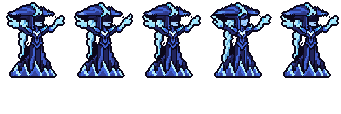
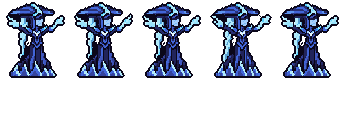
丽桑卓 R 对自己：冠下的面罩不再一大块黑，和她别的帧一样（用户：「感觉你说的丽桑卓那几个问题还是得修」）
- Codex 画的 R 对自己第 1、2 张（游戏里第 0、1、2、4 帧）脸很短，上面压着 6 行近黑的面罩；左边兜帽和头发之间还多出两行黑，整个面罩比她别的帧黑得多、高得多。
- 这几帧的头（冠、冠下的面罩和脸）换成同一个动作里第 4 张（游戏里第 3 帧）的：脸和设计图一样高，兜帽是深蓝，下巴在同一行，脖子不变（HEAD_FROM）。换头只换冠的那几列，举在冠沿旁边的手保持原样（CROWN_SPAN）。
- 五帧左边那两行黑都用下面一行的头发往上接到兜帽（HAIR_UP），只改黑格。
- 改了 R 对自己的 5 帧，以及待机、选人卡里用到这几帧的片段（hd_ / lo_ / 1 倍）。帧大小没变，.fanim 没变。细黑边留下的孤立黑格照样由 --specks 去掉。CI 的 53 项 python 检查、hero_reels --check 都过。

diff --git a/tools/art/casts_lissandra_hd.py b/tools/art/casts_lissandra_hd.py
@@ -7,8 +7,9 @@ at her design (the user, 2026-11-03: 「继续加四个 魔腾 凯南 剑魔 丽
 hd/casts holds Codex's 25 sheets (each its chosen raw generation byte for byte, redos included), drawn on a
 near-white ground: casts_rengar_hd.figure keys it off. Each frame's zoom (FRAME_ZOOM, --fit) reads her STAND rows tall,
 the top of her crown to her hem as the design, and of the zooms that do, the one nearest to what her CROWN gives (see
-FRAME_ZOOM), so her body and her crown are the design's size in every frame; HEAD_FROM gives two frames another's head;
-DEAD_PAINT lays her own shades over the black hole Codex left under the crown in the death's 5-8.
+FRAME_ZOOM), so her body and her crown are the design's size in every frame; HEAD_FROM gives frames another frame's
+head and HAIR_UP carries R-on-herself's hair up to the hood; DEAD_PAINT lays her own shades over the black hole Codex
+left under the crown in the death's 5-8.
 The old frame's body (its box places the new frame) leaves out what the old sheet baked in, the ice shards and frost by
 her hands: only what lies within two pixels of the dark outline counts (OLD_BODY). Each frame is then placed where the
 old body stood: its box's middle on the old box's middle and its bottom on the old box's bottom, from the pivot, on the
@@ -69,7 +70,15 @@ HELD = {"dead_7": "dead_6", "dead_8": "dead_6"}
 # crown's shadow") and a crown two squares wider at her height; tools/art/thin_outline.py ate into the blot, open to
 # the ground beside the face, and left holes and specks there (the user, 2026-11-16: 「丽桑卓头那里失去像素了」
 # 「丽桑卓也有莫名其妙阴影的部分」). Glide 6 is drawn the same way under the brim (the face as low), clean: frames 6-8 share it
-HEAD_FROM = {"run_7": "run_6", "run_8": "run_6"}
+HEAD_FROM = {"run_7": "run_6", "run_8": "run_6",
+             # R on herself (2026-11-17, 「感觉你说的丽桑卓那几个问题还是得修」): Codex's ult_self_1 / ult_self_2 (frames 0-2
+             # and 4) put a short face under a six-row black visor, the mask far darker than in her other frames; its
+             # ult_self_4 (frame 3) has the face as the design, under a navy hood, and the chin on the same row
+             **{f"ult_self_{k}": "ult_self_4" for k in (1, 2, 3, 5)}}
+# R on herself also leaves two black rows between the hood's band and her hair on her left, the mask's left half
+# twice as tall as in her other frames: the hair of the row under them carried up (HAIR_UP: design rows, the row the
+# hair is taken from, columns), outline squares only
+HAIR_UP = {f"ult_self_{k}": ((16, 18), 18, (12, 21)) for k in range(1, 6)}
 CROWN_ROWS = 14                 # design rows 0-13: the crown down to the brim's bottom outline (head_from takes all of it)
 # head_from's boxes under the brim (design rows and columns, from the fitted crown): the visor, the face and its dark
 # right side; the hair on her left and the hand by her chin stay the frame's own
@@ -307,6 +316,8 @@ def placed():
         out[n] = thrown(n, *out[n])
     for n, src in HEAD_FROM.items():
         out[n] = head_from(*out[n], out[src][0])
+    for n, spec in HAIR_UP.items():
+        out[n] = (hair_up(out[n][0], spec), out[n][1], out[n][2])
     for n in [n for n in out if HELD.get(n, n) in DEAD_PAINTED]:
         out[n] = (paint_void(out[n][0], out[DEAD_PAINT["src"]][0]), out[n][1], out[n][2])
     for n, (pic, x, y) in out.items():
@@ -338,18 +349,25 @@ def crown_fit(pic, search=6):
     return best[1], best[2]
 
 
+CROWN_SPAN = (-3, 50)           # the crown's columns (from the fitted crown's column 0): a brim drawn 2 wider fits
+
+
 def head_from(pic, x, y, src, pad=4):
     """(picture, x, y): the frame with src's head - src's rows down to the crown's last row (CROWN_ROWS - 1 in the
-    design) over the whole width, and HEAD_BOXES under the brim - laid where the design's crown fits the frame
-    (crown_fit on both); the frame's own rows above and in the crown's go first (a taller crown tip, a wider brim)."""
+    design) across the crown's columns (CROWN_SPAN: a hand raised beside the brim stays), and HEAD_BOXES under the
+    brim - laid where the design's crown fits the frame (crown_fit on both); the frame's own squares there go first (a
+    taller crown tip, a wider brim)."""
     sy, sx = crown_fit(src)
     fy, fx = crown_fit(pic)
     oy, ox = fy - sy + pad, fx - sx + pad
     out = np.zeros((pic.shape[0] + 2 * pad, pic.shape[1] + 2 * pad, 4), np.uint8)
     out[pad:pad + pic.shape[0], pad:pad + pic.shape[1]] = pic
     last = sy + CROWN_ROWS                          # src rows above this are the crown
-    out[:max(0, last + oy)] = 0
+    c0, c1 = sx + CROWN_SPAN[0], sx + CROWN_SPAN[1]
+    out[:max(0, last + oy), max(0, c0 + ox):max(0, c1 + ox)] = 0
     ys, xs = np.nonzero(src[:last, :, 3] > 0)
+    keep = (xs >= c0) & (xs < c1)
+    ys, xs = ys[keep], xs[keep]
     out[ys + oy, xs + ox] = src[ys, xs]
     for r0, r1, c0, c1 in HEAD_BOXES:
         for r in range(r0 + sy, r1 + sy):
@@ -375,6 +393,22 @@ def _box(shape, b, oy, ox):
     m = np.zeros(shape[:2], bool)
     m[max(0, b[0] + oy):max(0, b[1] + oy), max(0, b[2] + ox):max(0, b[3] + ox)] = True
     return m
+
+
+def hair_up(pic, spec):
+    """The frame with its hair carried up (HAIR_UP): in the rows and columns given (design, from the fitted crown),
+    an outline square under which the source row has hair (a light square) takes that square."""
+    (r0, r1), row, (c0, c1) = spec
+    fy, fx = crown_fit(pic)
+    line = _cols(pic, OUTLINE_COLS)
+    out = pic.copy()
+    for r in range(r0, r1):
+        for c in range(c0, c1):
+            y, x = r + fy, c + fx
+            s = pic[row + fy, x]
+            if line[y, x] and s[3] > 0 and int(s[:3].astype(int).sum()) >= 300:
+                out[y, x] = s
+    return out
 
 
 def paint_void(pic, src, spec=DEAD_PAINT):
